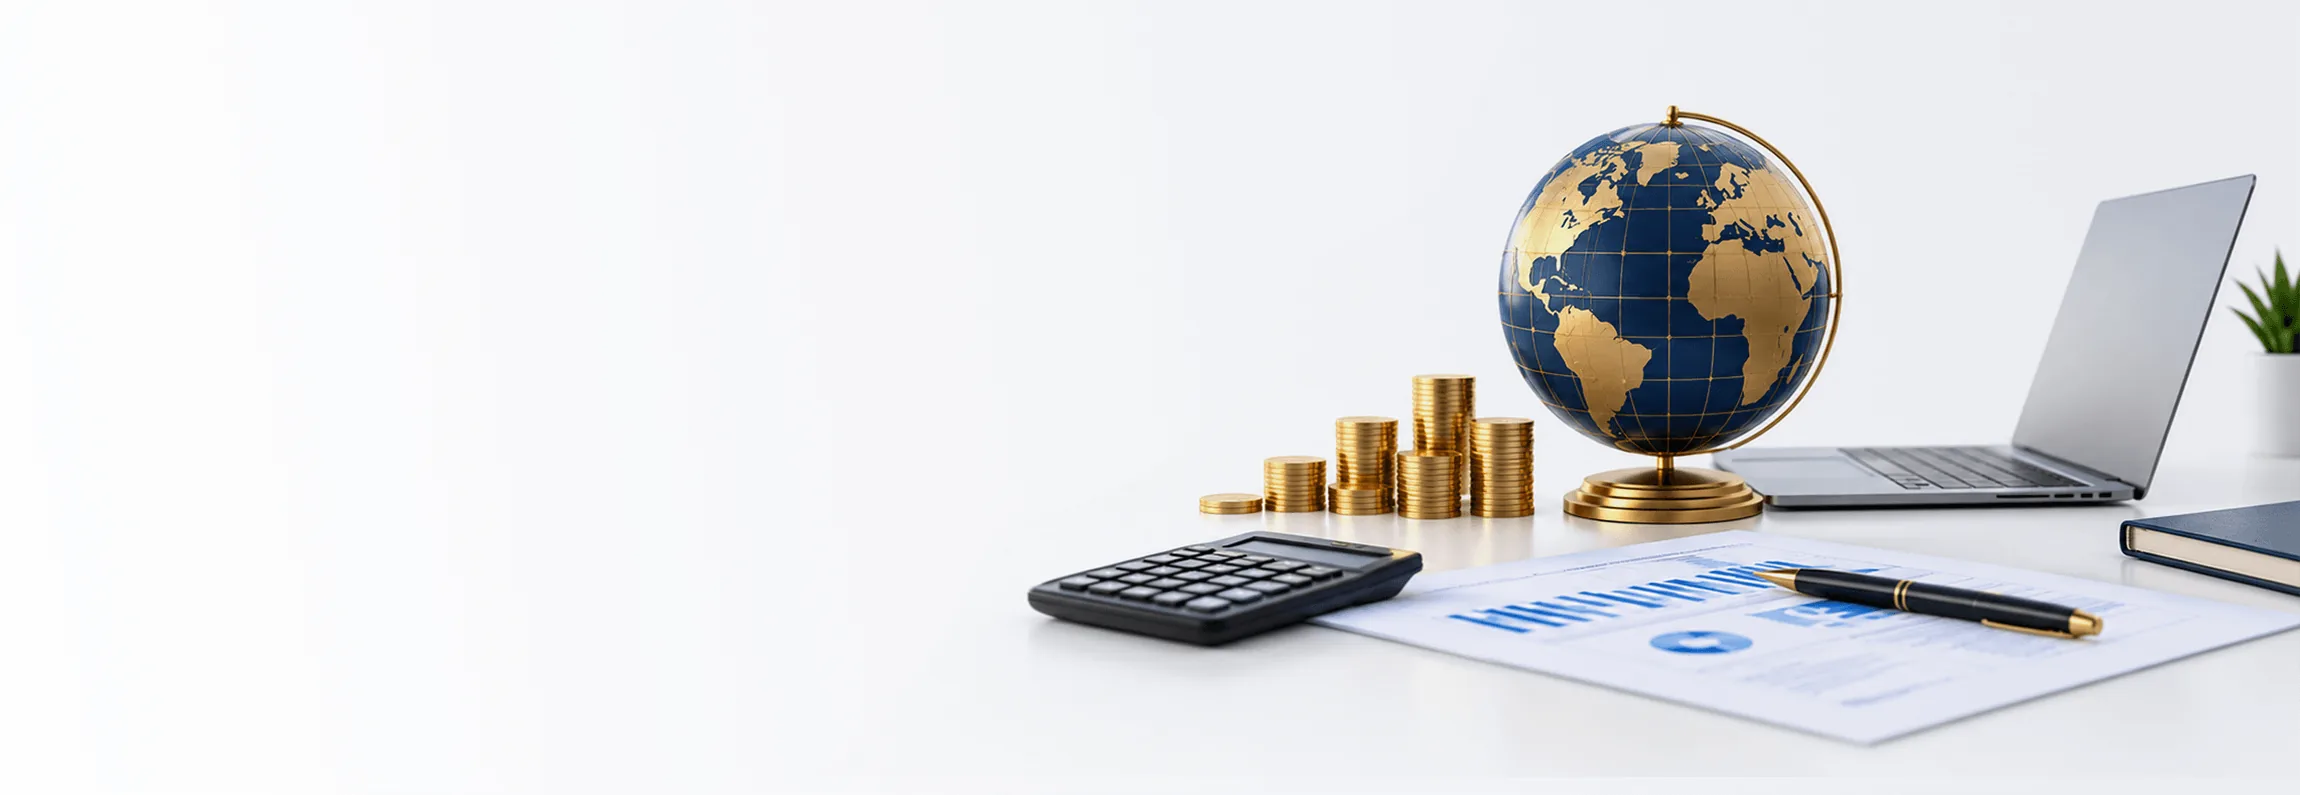
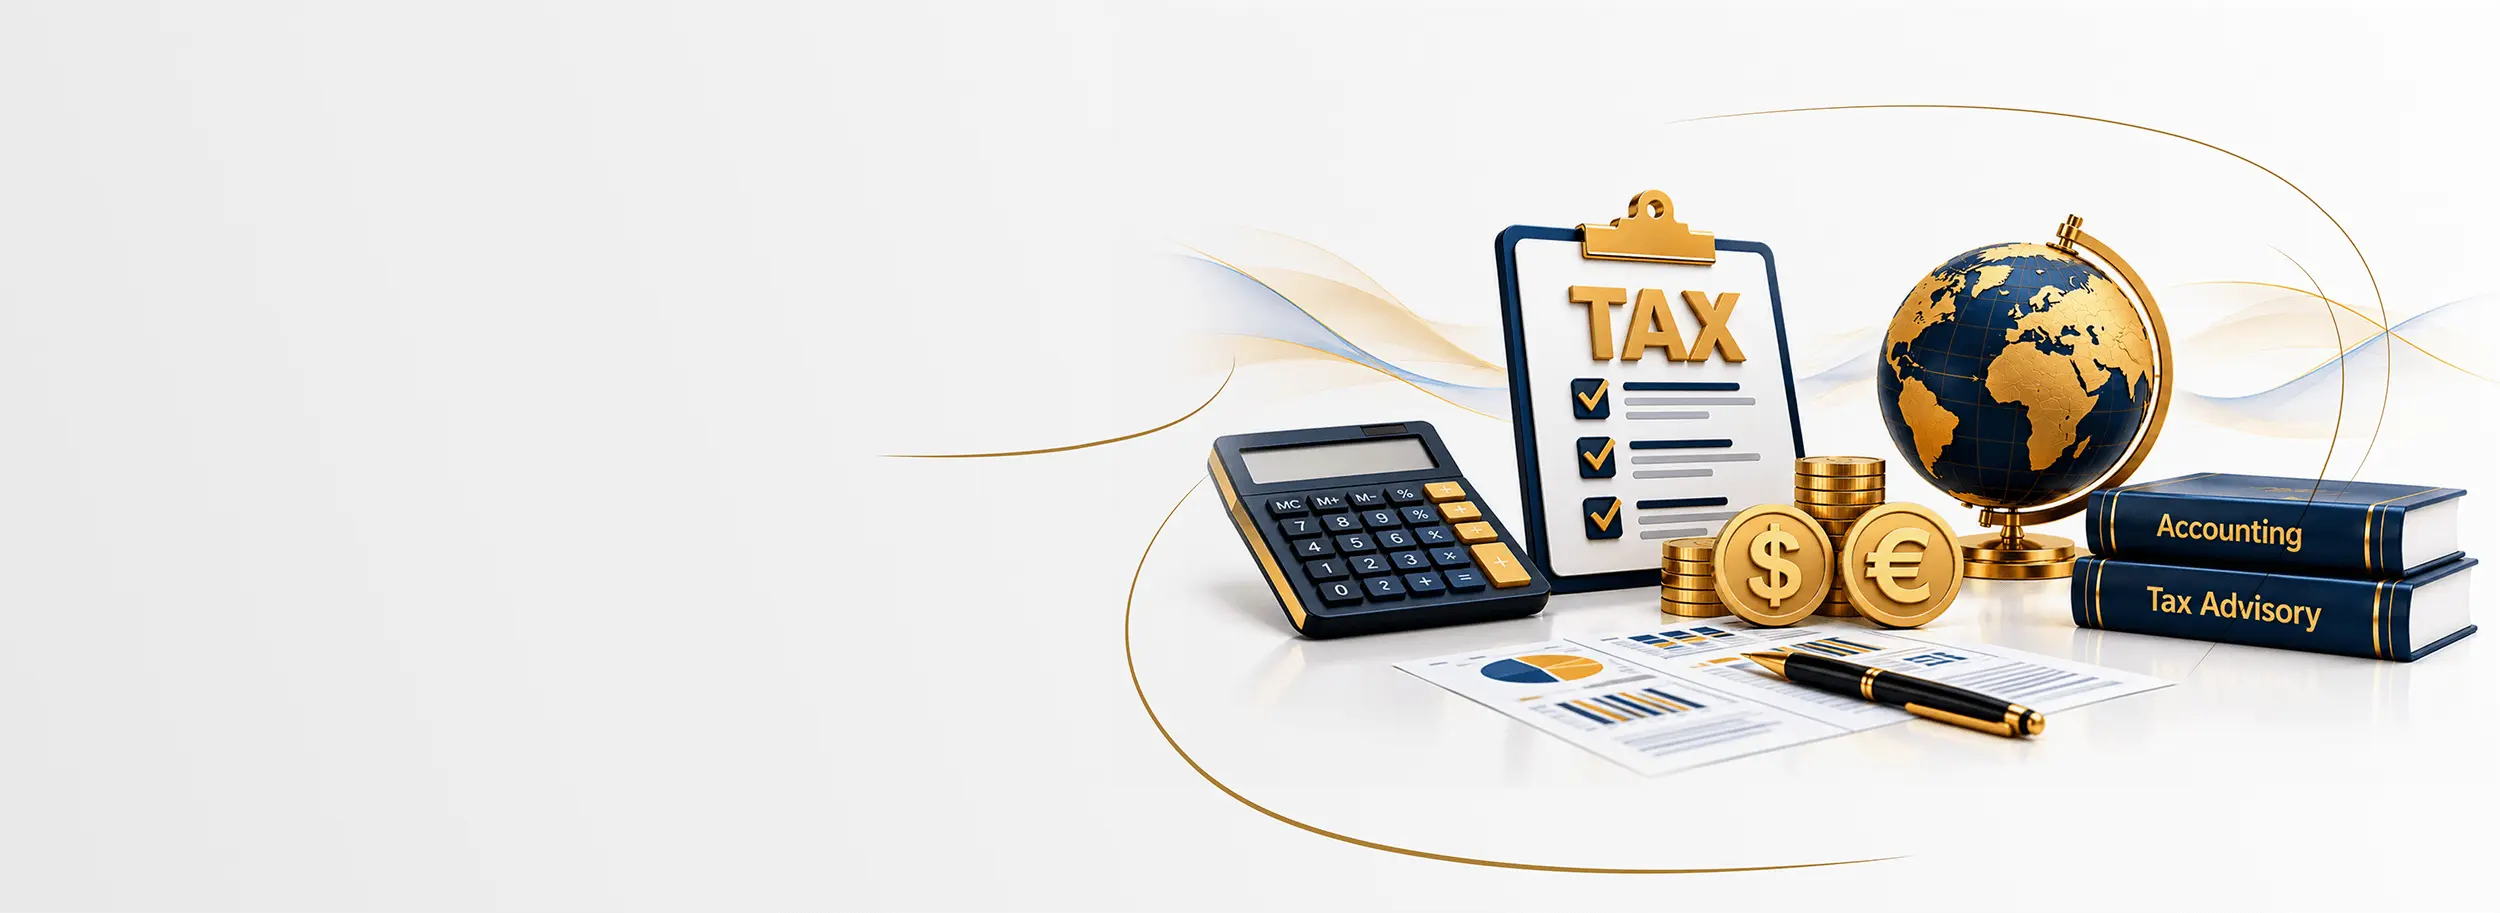
update image contents

diff --git a/assets/css/inner-pages.css b/assets/css/inner-pages.css
@@ -244,7 +244,7 @@
 .ip-card:hover .ip-card__list li:nth-child(3) { transition-delay: 0.1s; }
 
 /* ---------- FAQ ---------- */
-.ip-faq { position: relative; padding: 5rem 0; background: #fff; overflow: hidden; }
+.ip-faq { position: relative; padding: 5rem 0; background: #fff; overflow: hidden; display:none }
 .ip-faq .container { position: relative; z-index: 2; }
 .ip-faq__art { width: 100%; max-width: 360px; height: auto; display: block; animation: floatTop 5s ease-in-out infinite alternate; }
 .ip-faq__tag { display: flex; align-items: center; gap: 0.9rem; margin: 1.2rem 0 0.6rem; }

diff --git a/assets/css/style.css b/assets/css/style.css
@@ -1132,7 +1132,3 @@ body, html {
     transform: translateY(-3px);
     box-shadow: 0 6px 14px rgba(163, 130, 64, 0.25);
 }
-
-.ip-faq{
-    display: none;
-}

diff --git a/ready-made-licenses.php b/ready-made-licenses.php
@@ -8,8 +8,8 @@ $obj    = BASE_URL . BASE_FOLDER . '/assets/images/objects';
 $faqArt = BASE_URL . BASE_FOLDER . '/assets/images/faq-art.webp';
 
 // Hero / CTA backgrounds: drop your own hero-bg.webp / cta-bg.webp into the folder above and they are used automatically.
-$heroFile = file_exists(ROOT_PATH . $imgDir . '/hero-bg.webp') ? 'hero-bg.webp' : 'hero-bg.svg';
-$ctaFile  = file_exists(ROOT_PATH . $imgDir . '/cta-bg.webp')  ? 'cta-bg.webp'  : 'cta-bg.svg';
+$heroFile = file_exists(ROOT_PATH . $imgDir . '/hero-bg.webp??v=' . FILE_VERSISON)') ? 'hero-bg.webp??v=' . FILE_VERSISON)' : 'hero-bg.svg';
+$ctaFile  = file_exists(ROOT_PATH . $imgDir . '/cta-bg.webp??v=' . FILE_VERSISON)')  ? 'cta-bg.webp??v=' . FILE_VERSISON)'  : 'cta-bg.svg';
 ?>
 
 <!-- Shared inner-page theme (same look & animation set as index) -->

diff --git a/news-insights.php b/news-insights.php
@@ -7,8 +7,8 @@ $img    = BASE_URL . BASE_FOLDER . $imgDir;
 $obj    = BASE_URL . BASE_FOLDER . '/assets/images/objects';
 
 // Hero / CTA backgrounds: drop your own hero-bg.webp / cta-bg.webp into the folder above and they are used automatically.
-$heroFile = file_exists(ROOT_PATH . $imgDir . '/hero-bg.webp') ? 'hero-bg.webp' : 'hero-bg.svg';
-$ctaFile  = file_exists(ROOT_PATH . $imgDir . '/cta-bg.webp')  ? 'cta-bg.webp'  : 'cta-bg.svg';
+$heroFile = file_exists(ROOT_PATH . $imgDir . '/hero-bg.webp??v=' . FILE_VERSISON)') ? 'hero-bg.webp??v=' . FILE_VERSISON)' : 'hero-bg.svg';
+$ctaFile  = file_exists(ROOT_PATH . $imgDir . '/cta-bg.webp??v=' . FILE_VERSISON)')  ? 'cta-bg.webp??v=' . FILE_VERSISON)'  : 'cta-bg.svg';
 ?>
 
 <!-- Shared theme + app-page components (same look & animation set as the other pages) -->

diff --git a/our-clients.php b/our-clients.php
@@ -7,8 +7,8 @@ $img    = BASE_URL . BASE_FOLDER . $imgDir;
 $obj    = BASE_URL . BASE_FOLDER . '/assets/images/objects';
 
 // Hero / CTA backgrounds: drop your own hero-bg.webp / cta-bg.webp into the folder above and they are used automatically.
-$heroFile = file_exists(ROOT_PATH . $imgDir . '/hero-bg.webp') ? 'hero-bg.webp' : 'hero-bg.svg';
-$ctaFile  = file_exists(ROOT_PATH . $imgDir . '/cta-bg.webp')  ? 'cta-bg.webp'  : 'cta-bg.svg';
+$heroFile = file_exists(ROOT_PATH . $imgDir . '/hero-bg.webp??v=' . FILE_VERSISON)') ? 'hero-bg.webp??v=' . FILE_VERSISON)' : 'hero-bg.svg';
+$ctaFile  = file_exists(ROOT_PATH . $imgDir . '/cta-bg.webp??v=' . FILE_VERSISON)')  ? 'cta-bg.webp??v=' . FILE_VERSISON)'  : 'cta-bg.svg';
 ?>
 
 <!-- Shared theme + app-page components (same look & animation set as the other pages) -->

diff --git a/resources.php b/resources.php
@@ -7,8 +7,8 @@ $img    = BASE_URL . BASE_FOLDER . $imgDir;
 $obj    = BASE_URL . BASE_FOLDER . '/assets/images/objects';
 
 // Hero / CTA backgrounds: drop your own hero-bg.webp / cta-bg.webp into the folder above and they are used automatically.
-$heroFile = file_exists(ROOT_PATH . $imgDir . '/hero-bg.webp') ? 'hero-bg.webp' : 'hero-bg.svg';
-$ctaFile  = file_exists(ROOT_PATH . $imgDir . '/cta-bg.webp')  ? 'cta-bg.webp'  : 'cta-bg.svg';
+$heroFile = file_exists(ROOT_PATH . $imgDir . '/hero-bg.webp??v=' . FILE_VERSISON)') ? 'hero-bg.webp??v=' . FILE_VERSISON)' : 'hero-bg.svg';
+$ctaFile  = file_exists(ROOT_PATH . $imgDir . '/cta-bg.webp??v=' . FILE_VERSISON)')  ? 'cta-bg.webp??v=' . FILE_VERSISON)'  : 'cta-bg.svg';
 ?>
 
 <!-- Shared theme + app-page components (same look & animation set as the other pages) -->

diff --git a/webinars.php b/webinars.php
@@ -7,8 +7,8 @@ $img    = BASE_URL . BASE_FOLDER . $imgDir;
 $obj    = BASE_URL . BASE_FOLDER . '/assets/images/objects';
 
 // Hero / CTA backgrounds: drop your own hero-bg.webp / cta-bg.webp into the folder above and they are used automatically.
-$heroFile = file_exists(ROOT_PATH . $imgDir . '/hero-bg.webp') ? 'hero-bg.webp' : 'hero-bg.svg';
-$ctaFile  = file_exists(ROOT_PATH . $imgDir . '/cta-bg.webp')  ? 'cta-bg.webp'  : 'cta-bg.svg';
+$heroFile = file_exists(ROOT_PATH . $imgDir . '/hero-bg.webp??v=' . FILE_VERSISON)') ? 'hero-bg.webp??v=' . FILE_VERSISON)' : 'hero-bg.svg';
+$ctaFile  = file_exists(ROOT_PATH . $imgDir . '/cta-bg.webp??v=' . FILE_VERSISON)')  ? 'cta-bg.webp??v=' . FILE_VERSISON)'  : 'cta-bg.svg';
 ?>
 
 <!-- Shared theme + app-page components (same look & animation set as the other pages) -->

diff --git a/corporate-advisory.php b/corporate-advisory.php
@@ -8,8 +8,8 @@ $obj    = BASE_URL . BASE_FOLDER . '/assets/images/objects';
 $faqArt = BASE_URL . BASE_FOLDER . '/assets/images/faq-art.webp';
 
 // Hero / CTA backgrounds: drop your own hero-bg.webp / cta-bg.webp into the folder above and they are used automatically.
-$heroFile = file_exists(ROOT_PATH . $imgDir . '/hero-bg.webp') ? 'hero-bg.webp' : 'hero-bg.svg';
-$ctaFile  = file_exists(ROOT_PATH . $imgDir . '/cta-bg.webp')  ? 'cta-bg.webp'  : 'cta-bg.svg';
+$heroFile = file_exists(ROOT_PATH . $imgDir . '/hero-bg.webp??v=' . FILE_VERSISON)') ? 'hero-bg.webp??v=' . FILE_VERSISON)' : 'hero-bg.svg';
+$ctaFile  = file_exists(ROOT_PATH . $imgDir . '/cta-bg.webp??v=' . FILE_VERSISON)')  ? 'cta-bg.webp??v=' . FILE_VERSISON)'  : 'cta-bg.svg';
 ?>
 
     <!-- JSON-LD Structured Data (SEO, AEO, GEO Optimization) -->

diff --git a/crypto-currency-license.php b/crypto-currency-license.php
@@ -8,8 +8,8 @@ $obj    = BASE_URL . BASE_FOLDER . '/assets/images/objects';
 $faqArt = BASE_URL . BASE_FOLDER . '/assets/images/faq-art.webp';
 
 // Hero / CTA backgrounds: drop your own hero-bg.webp / cta-bg.webp into the folder above and they are used automatically.
-$heroFile = file_exists(ROOT_PATH . $imgDir . '/hero-bg.webp') ? 'hero-bg.webp' : 'hero-bg.svg';
-$ctaFile  = file_exists(ROOT_PATH . $imgDir . '/cta-bg.webp')  ? 'cta-bg.webp'  : 'cta-bg.svg';
+$heroFile = file_exists(ROOT_PATH . $imgDir . '/hero-bg.webp??v=' . FILE_VERSISON)') ? 'hero-bg.webp??v=' . FILE_VERSISON)' : 'hero-bg.svg';
+$ctaFile  = file_exists(ROOT_PATH . $imgDir . '/cta-bg.webp??v=' . FILE_VERSISON)')  ? 'cta-bg.webp??v=' . FILE_VERSISON)'  : 'cta-bg.svg';
 ?>
 
     <!-- JSON-LD Structured Data (SEO, AEO, GEO Optimization) -->

diff --git a/forex-broker-license.php b/forex-broker-license.php
@@ -8,8 +8,8 @@ $obj    = BASE_URL . BASE_FOLDER . '/assets/images/objects';
 $faqArt = BASE_URL . BASE_FOLDER . '/assets/images/faq-art.webp';
 
 // Hero / CTA backgrounds: drop your own hero-bg.webp / cta-bg.webp into the folder above and they are used automatically.
-$heroFile = file_exists(ROOT_PATH . $imgDir . '/hero-bg.webp') ? 'hero-bg.webp' : 'hero-bg.svg';
-$ctaFile  = file_exists(ROOT_PATH . $imgDir . '/cta-bg.webp')  ? 'cta-bg.webp'  : 'cta-bg.svg';
+$heroFile = file_exists(ROOT_PATH . $imgDir . '/hero-bg.webp??v=' . FILE_VERSISON)') ? 'hero-bg.webp??v=' . FILE_VERSISON)' : 'hero-bg.svg';
+$ctaFile  = file_exists(ROOT_PATH . $imgDir . '/cta-bg.webp??v=' . FILE_VERSISON)')  ? 'cta-bg.webp??v=' . FILE_VERSISON)'  : 'cta-bg.svg';
 ?>
 
     <!-- JSON-LD Structured Data (SEO, AEO, GEO Optimization) -->

diff --git a/fund-service.php b/fund-service.php
@@ -8,8 +8,8 @@ $obj    = BASE_URL . BASE_FOLDER . '/assets/images/objects';
 $faqArt = BASE_URL . BASE_FOLDER . '/assets/images/faq-art.webp';
 
 // Hero / CTA backgrounds: drop your own hero-bg.webp / cta-bg.webp into the folder above and they are used automatically.
-$heroFile = file_exists(ROOT_PATH . $imgDir . '/hero-bg.webp') ? 'hero-bg.webp' : 'hero-bg.svg';
-$ctaFile  = file_exists(ROOT_PATH . $imgDir . '/cta-bg.webp')  ? 'cta-bg.webp'  : 'cta-bg.svg';
+$heroFile = file_exists(ROOT_PATH . $imgDir . '/hero-bg.webp??v=' . FILE_VERSISON)') ? 'hero-bg.webp??v=' . FILE_VERSISON)' : 'hero-bg.svg';
+$ctaFile  = file_exists(ROOT_PATH . $imgDir . '/cta-bg.webp??v=' . FILE_VERSISON)')  ? 'cta-bg.webp??v=' . FILE_VERSISON)'  : 'cta-bg.svg';
 ?>
 
     <!-- JSON-LD Structured Data (SEO, AEO, GEO Optimization) -->

diff --git a/merger-acquisition.php b/merger-acquisition.php
@@ -8,8 +8,8 @@ $obj    = BASE_URL . BASE_FOLDER . '/assets/images/objects';
 $faqArt = BASE_URL . BASE_FOLDER . '/assets/images/faq-art.webp';
 
 // Hero / CTA backgrounds: drop your own hero-bg.webp / cta-bg.webp into the folder above and they are used automatically.
-$heroFile = file_exists(ROOT_PATH . $imgDir . '/hero-bg.webp') ? 'hero-bg.webp' : 'hero-bg.svg';
-$ctaFile  = file_exists(ROOT_PATH . $imgDir . '/cta-bg.webp')  ? 'cta-bg.webp'  : 'cta-bg.svg';
+$heroFile = file_exists(ROOT_PATH . $imgDir . '/hero-bg.webp??v=' . FILE_VERSISON)') ? 'hero-bg.webp??v=' . FILE_VERSISON)' : 'hero-bg.svg';
+$ctaFile  = file_exists(ROOT_PATH . $imgDir . '/cta-bg.webp??v=' . FILE_VERSISON)')  ? 'cta-bg.webp??v=' . FILE_VERSISON)'  : 'cta-bg.svg';
 ?>
 
     <!-- JSON-LD Structured Data (SEO, AEO, GEO Optimization) -->
